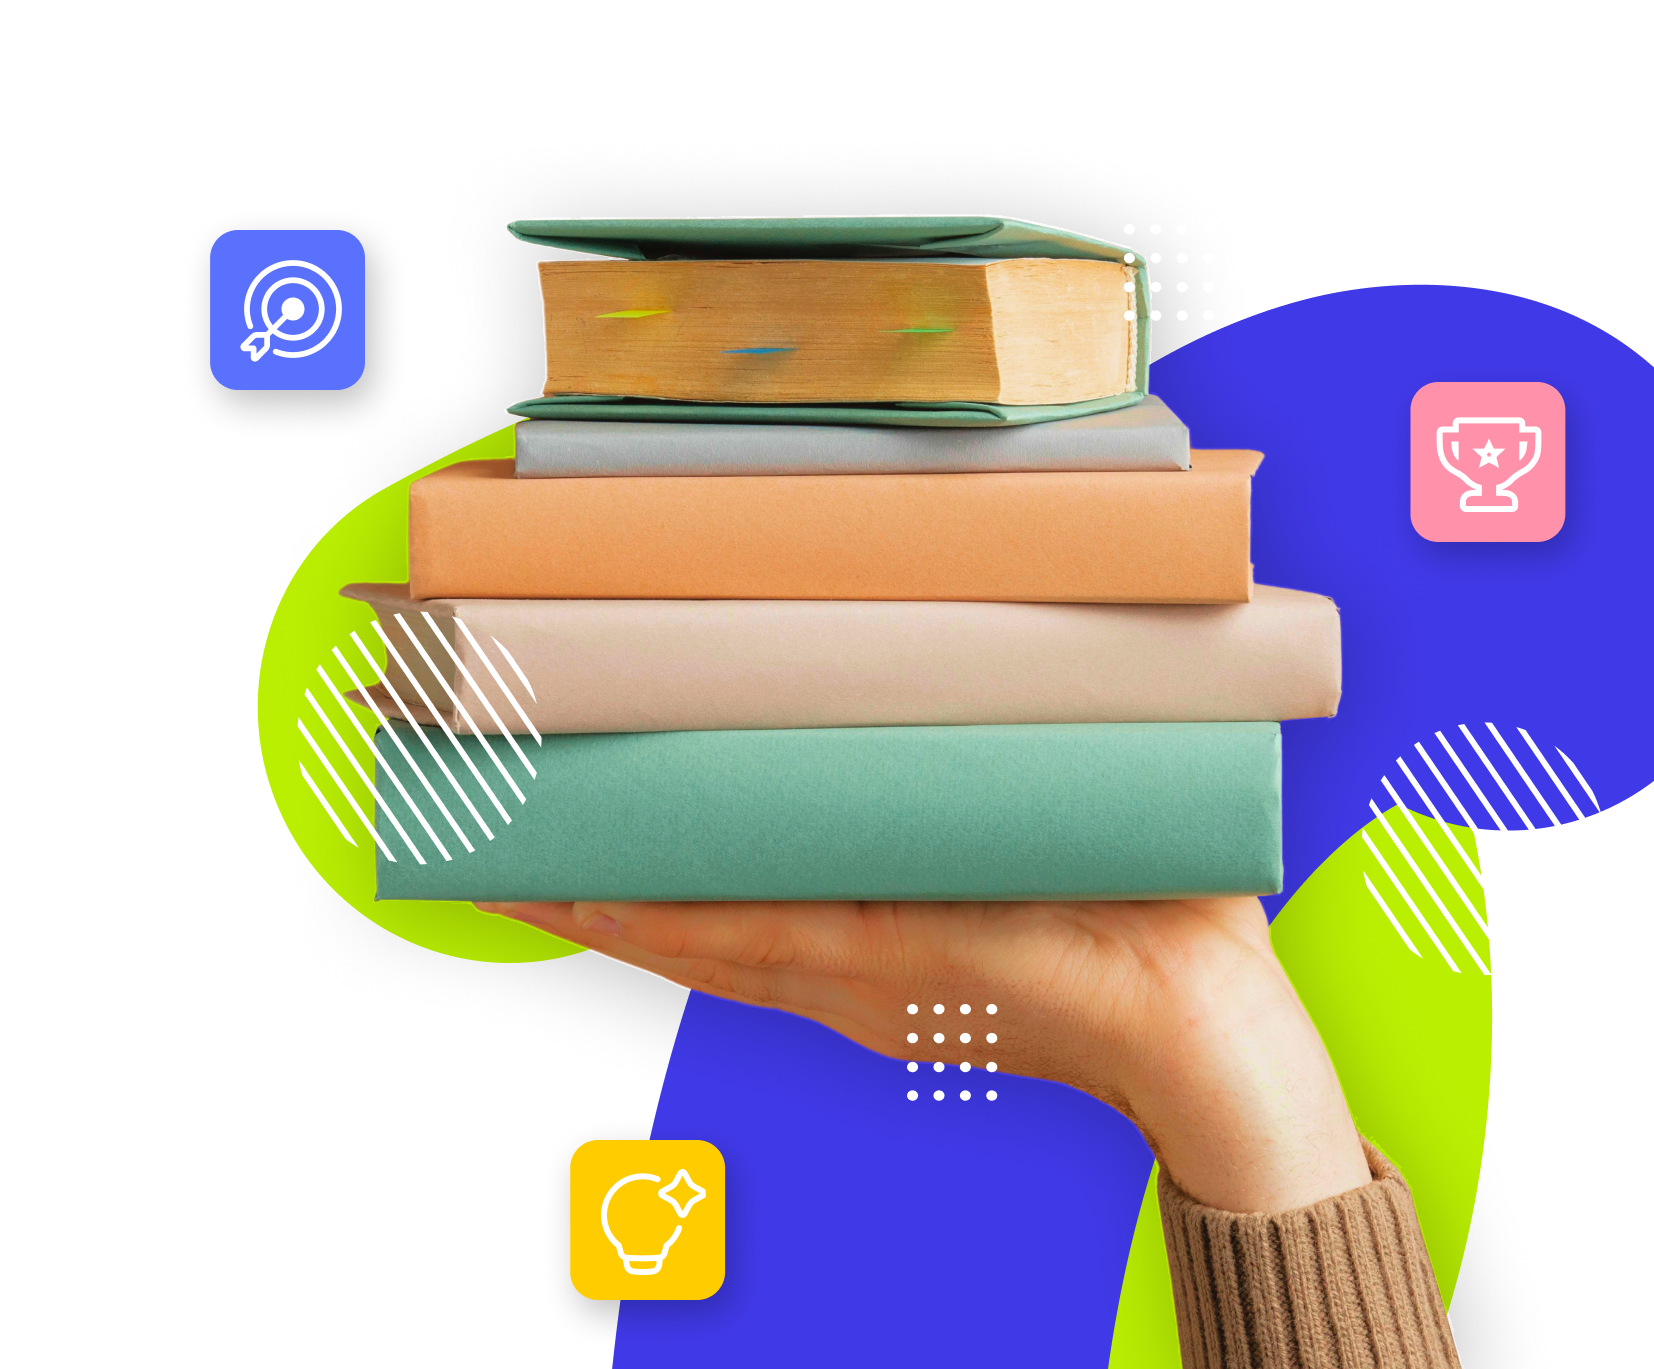
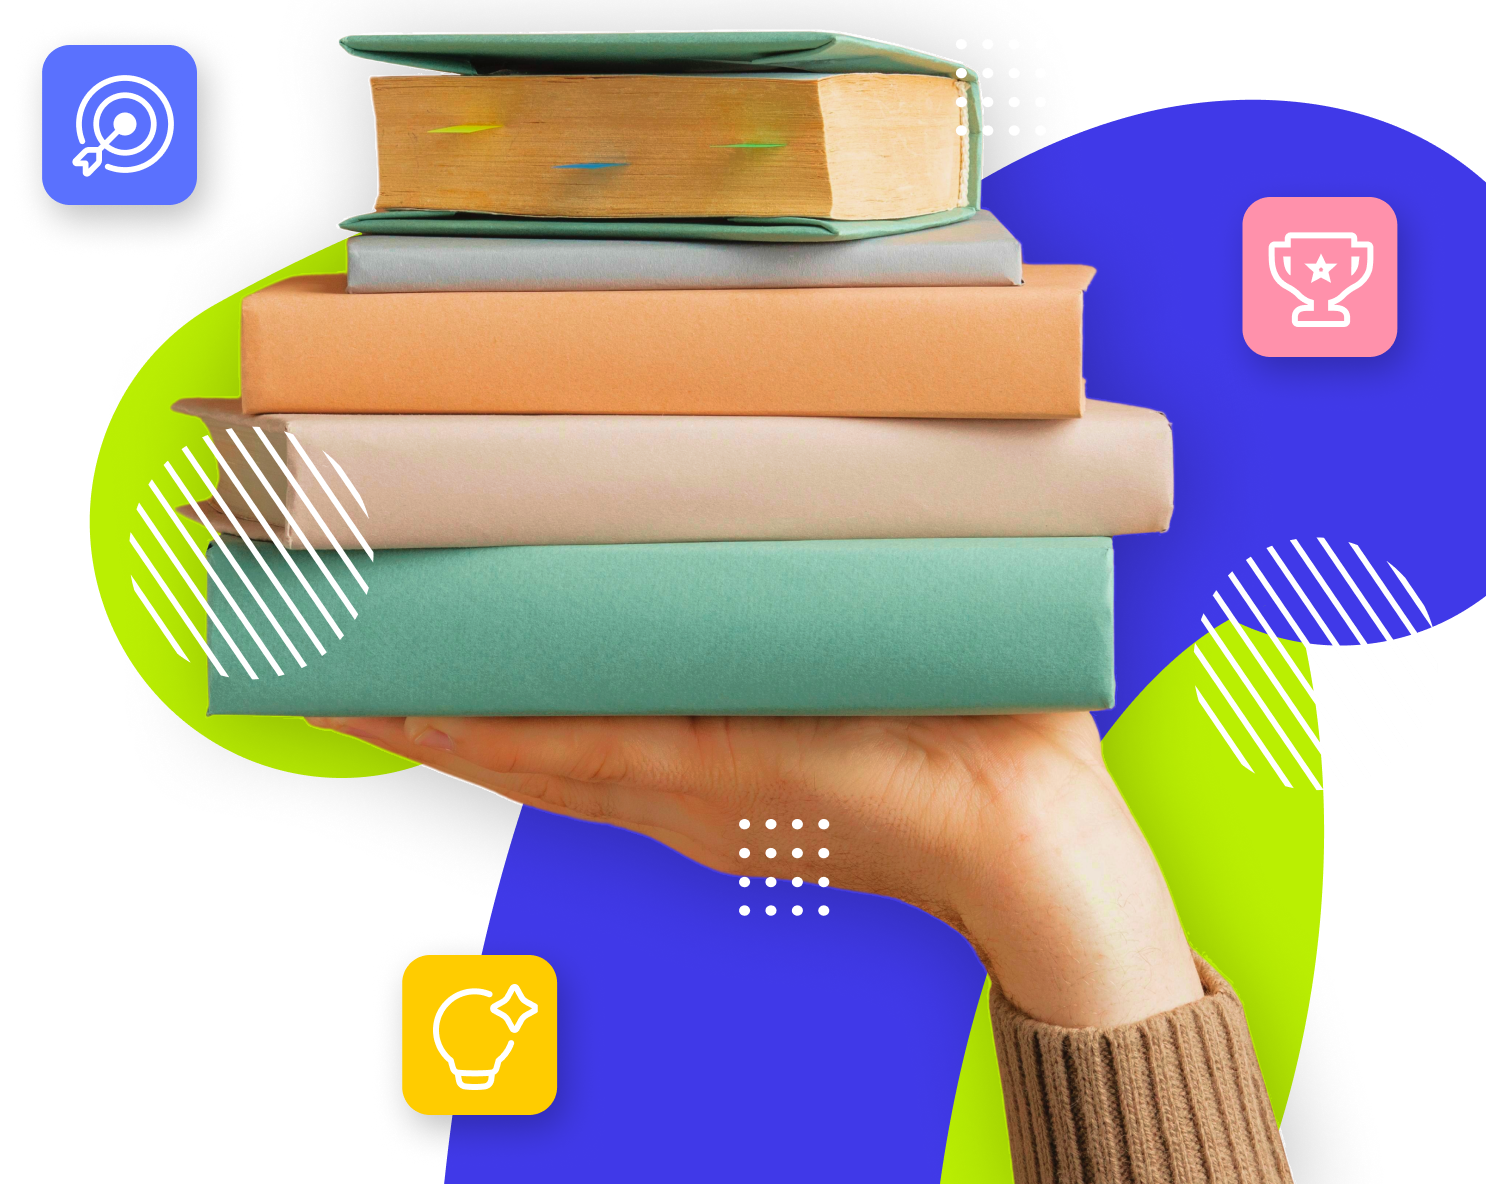
feat: Implement core homepage components including Header with search, Hero, Stats, BookCard, and HomePage, along with a new hero section image.

diff --git a/src/components/Stats.tsx b/src/components/Stats.tsx
@@ -1,107 +1,86 @@
-import svgPaths from "../imports/svg-zx896x9umy";
+'use client';
 
-function StashTargetLight() {
-  return (
-    <div className="size-[50px] md:size-[60px] lg:size-[69px]">
-      <svg className="block size-full" fill="none" preserveAspectRatio="none" viewBox="0 0 69 69">
-        <g>
-          <path d={svgPaths.p399d1600} fill="white" />
-          <path d={svgPaths.p1f8253c0} fill="white" />
-        </g>
-      </svg>
-    </div>
-  );
-}
-
-function StreamlinePlumpAiTechnologySpark() {
-  return (
-    <div className="size-[45px] md:size-[50px] lg:size-[55px]">
-      <svg className="block size-full" fill="none" preserveAspectRatio="none" viewBox="0 0 53 53">
-        <g>
-          <path d={svgPaths.p12442280} stroke="white" strokeLinecap="round" strokeLinejoin="round" strokeWidth="3" />
-          <path d={svgPaths.p220c6880} stroke="white" strokeWidth="3" />
-          <path d={svgPaths.pa117540} stroke="white" strokeLinecap="round" strokeLinejoin="round" strokeWidth="3" />
-        </g>
-      </svg>
-    </div>
-  );
-}
-
-function ArcticonsRewards() {
-  return (
-    <div className="size-[45px] md:size-[50px] lg:size-[57px]">
-      <svg className="block size-full" fill="none" preserveAspectRatio="none" viewBox="0 0 57 57">
-        <g>
-          <path d={svgPaths.p2dacb980} stroke="white" strokeLinecap="round" strokeLinejoin="round" strokeWidth="3" />
-        </g>
-      </svg>
-    </div>
-  );
-}
-
-function DotsPattern() {
-  return (
-    <div className="h-[40px] md:h-[48.354px] w-[38px] md:w-[46.599px]">
-      <svg className="block size-full" fill="none" preserveAspectRatio="none" viewBox="0 0 47 49">
-        <g>
-          <ellipse cx="2.84143" cy="2.58312" fill="white" rx="2.84143" ry="2.58312" />
-          <ellipse cx="16.4801" cy="2.58312" fill="white" rx="2.84143" ry="2.58312" />
-          <ellipse cx="30.1188" cy="2.58312" fill="white" rx="2.84143" ry="2.58312" />
-          <ellipse cx="43.7575" cy="2.58312" fill="white" rx="2.84143" ry="2.58312" />
-          <ellipse cx="2.84143" cy="17.048" fill="white" rx="2.84143" ry="2.58312" />
-          <ellipse cx="16.4801" cy="17.048" fill="white" rx="2.84143" ry="2.58312" />
-          <ellipse cx="30.1188" cy="17.048" fill="white" rx="2.84143" ry="2.58312" />
-          <ellipse cx="43.7575" cy="17.048" fill="white" rx="2.84143" ry="2.58312" />
-          <ellipse cx="2.84143" cy="31.5167" fill="white" rx="2.84143" ry="2.58312" />
-          <ellipse cx="16.4801" cy="31.5167" fill="white" rx="2.84143" ry="2.58312" />
-          <ellipse cx="30.1188" cy="31.5167" fill="white" rx="2.84143" ry="2.58312" />
-          <ellipse cx="43.7575" cy="31.5167" fill="white" rx="2.84143" ry="2.58312" />
-          <ellipse cx="2.84143" cy="45.7706" fill="white" rx="2.84143" ry="2.58312" />
-          <ellipse cx="16.4801" cy="45.7706" fill="white" rx="2.84143" ry="2.58312" />
-          <ellipse cx="30.1188" cy="45.7706" fill="white" rx="2.84143" ry="2.58312" />
-          <ellipse cx="43.7575" cy="45.7706" fill="white" rx="2.84143" ry="2.58312" />
-        </g>
-      </svg>
-    </div>
-  );
-}
+import { useState, useEffect } from 'react';
 
 export default function Stats() {
+  const [totalBooks, setTotalBooks] = useState(0);
+  const [totalCategories, setTotalCategories] = useState(0);
+
+  useEffect(() => {
+    const fetchStats = async () => {
+      try {
+        const res = await fetch('/api/stats');
+        const data = await res.json();
+        if (data.data) {
+          setTotalBooks(data.data.totalBooks || 0);
+          setTotalCategories(data.data.totalCategories || 0);
+        }
+      } catch (error) {
+        console.error("Failed to fetch stats:", error);
+      }
+    };
+    fetchStats();
+  }, []);
+
   return (
     <section className="relative w-full py-8 md:py-12">
       <div className="max-w-7xl mx-auto px-4 sm:px-6 lg:px-8">
-        <div className="relative bg-[#d9d9d9] rounded-[25px] p-6 md:p-8 lg:p-12 overflow-hidden">
-          {/* Decorative dots - hidden on mobile */}
-          <div className="absolute top-4 right-4 md:top-8 md:right-12 opacity-50 hidden md:block">
-            <DotsPattern />
-          </div>
-          <div className="absolute bottom-4 left-4 md:bottom-8 md:left-12 opacity-50 hidden md:block">
-            <DotsPattern />
-          </div>
+        {/* Dark background wrapper */}
+        <div className="bg-[#1a1a2e] rounded-[20px] p-4 md:p-6">
+          {/* White card with stats */}
+          <div className="bg-white rounded-[16px] p-6 md:p-8 lg:p-10">
+            <div className="grid grid-cols-1 md:grid-cols-2 lg:grid-cols-4 gap-6 md:gap-8">
 
-          <div className="grid grid-cols-1 md:grid-cols-3 gap-8 md:gap-12 relative z-10">
-            {/* Stat 1 */}
-            <div className="flex flex-col items-center text-center gap-4">
-              <div className="bg-[#5a71fe] rounded-[14px] shadow-[4px_7px_20px_0px_rgba(0,0,0,0.25)] p-4 md:p-5">
-                <StashTargetLight />
+              {/* Stat 1 - Kategori Ekslusif */}
+              <div className="flex flex-col gap-2">
+                <div className="flex items-baseline gap-2">
+                  <span className="text-[#5a4fcf] text-3xl md:text-4xl font-bold">
+                    {totalCategories > 0 ? totalCategories : 8}+
+                  </span>
+                  <span className="text-gray-800 text-lg md:text-xl font-semibold">
+                    Kategori Ekslusif
+                  </span>
+                </div>
+                <p className="text-gray-500 text-sm md:text-base">
+                  Koleksi pilihan untuk memperkaya wawasan anda
+                </p>
               </div>
-              <p className="font-['Poppins',sans-serif] text-black text-sm md:text-base">Total Kategori</p>
-            </div>
 
-            {/* Stat 2 */}
-            <div className="flex flex-col items-center text-center gap-4">
-              <div className="bg-[#ffcc00] rounded-[14px] shadow-[4px_7px_20px_0px_rgba(0,0,0,0.25)] p-4 md:p-5">
-                <StreamlinePlumpAiTechnologySpark />
+              {/* Stat 2 - Pengiriman Cepat & Aman */}
+              <div className="flex flex-col gap-2">
+                <h3 className="text-gray-800 text-lg md:text-xl font-semibold">
+                  Pengiriman Cepat & Aman
+                </h3>
+                <p className="text-gray-500 text-sm md:text-base">
+                  Kami menjaga setiap langkah pengiriman dengan penuh perhatian
+                </p>
               </div>
-              <p className="font-['Poppins',sans-serif] text-black text-sm md:text-base">Total buku available</p>
-            </div>
 
-            {/* Stat 3 */}
-            <div className="flex flex-col items-center text-center gap-4">
-              <div className="bg-[#ff91ab] rounded-[14px] shadow-[4px_7px_20px_0px_rgba(0,0,0,0.25)] p-4 md:p-5">
-                <ArcticonsRewards />
+              {/* Stat 3 - Mutu Terjamin */}
+              <div className="flex flex-col gap-2">
+                <h3 className="text-gray-800 text-lg md:text-xl font-semibold">
+                  Mutu Terjamin
+                </h3>
+                <p className="text-gray-500 text-sm md:text-base">
+                  Buku-buku berkualitas tinggi untuk pengalaman membaca terbaik
+                </p>
               </div>
-              <p className="font-['Poppins',sans-serif] text-black text-sm md:text-base">Total buku yang terjual</p>
+
+              {/* Stat 4 - Total Buku Tersedia */}
+              <div className="flex flex-col gap-2 lg:border-l lg:border-gray-200 lg:pl-8">
+                <div className="flex items-baseline gap-2">
+                  <span className="text-[#5a4fcf] text-3xl md:text-4xl font-bold">
+                    {totalBooks > 0 ? totalBooks : 100}+
+                  </span>
+                  <span className="text-gray-800 text-lg md:text-xl font-semibold">
+                    Total Buku Tersedia
+                  </span>
+                </div>
+                <p className="text-gray-500 text-sm md:text-base">
+                  Temukan buku-buku yang akan memperluas wawasan Anda
+                </p>
+              </div>
+
             </div>
           </div>
         </div>

diff --git a/src/components/Hero.tsx b/src/components/Hero.tsx
@@ -1,34 +1,8 @@
 'use client';
 
-import { motion, useScroll, useTransform, useSpring, useInView, Variants } from "framer-motion";
-import { useEffect, useState, useRef } from "react";
+import { motion, useScroll, useTransform, useSpring } from "framer-motion";
+import { useEffect, useState } from "react";
 import { useRouter } from "next/navigation";
-
-const CountUp = ({ value, suffix = "" }: { value: number; suffix?: string }) => {
-  const ref = useRef(null);
-  const isInView = useInView(ref, { once: true });
-  const springValue = useSpring(0, {
-    damping: 30,
-    stiffness: 100,
-    duration: 2
-  });
-  const [displayValue, setDisplayValue] = useState(0);
-
-  useEffect(() => {
-    if (isInView) {
-      springValue.set(value);
-    }
-  }, [isInView, value, springValue]);
-
-  useEffect(() => {
-    const unsubscribe = springValue.on("change", (latest) => {
-      setDisplayValue(Math.floor(latest));
-    });
-    return () => unsubscribe();
-  }, [springValue]);
-
-  return <span ref={ref}>{displayValue.toLocaleString()}{suffix}</span>;
-};
 
 export default function Hero() {
   const router = useRouter();
@@ -59,7 +33,7 @@ export default function Hero() {
   return (
     <>
       {/* Hero Section */}
-      <section className="relative w-full bg-white overflow-hidden">
+      <section className="relative w-full bg-[#F5F5F5] overflow-hidden">
         <div className="relative max-w-[1440px] mx-auto">
           <div className="flex flex-col lg:flex-row">
             {/* Left Content */}
@@ -98,46 +72,74 @@ export default function Hero() {
                 transition={{ duration: 0.8, delay: 0.5, ease: "easeOut" }}
                 src="/img/hand-hero-section.png"
                 alt="Koleksi Buku Pustaka Setia"
-                className="w-full h-full lg:w-auto right-0 lg:h-[700px] object-contain object-bottom transform lg:translate-x-10"
+                className="w-full h-full lg:w-auto right-0 lg:h-[800px] object-contain object-bottom transform lg:translate-x-10"
               />
             </div>
           </div>
         </div>
       </section>
 
-      {/* Stats Section with Parallax */}
-      <section className="w-full h-[300px] relative overflow-hidden flex items-center">
-        {/* Parallax Background */}
-        <motion.div
-          style={{ y }}
-          className="absolute inset-0 bg-neutral-100 border-t border-neutral-200 z-0"
-        />
+      {/* Stats Section - Horizontal Layout */}
+      <section className="w-full z-50 relative -mt-5 pb-5 overflow-hidden">
+        <div className="max-w-[1440px] mx-auto px-4 md:px-8 lg:px-16 w-full">
+          {/* White card with shadow */}
+          <div className="bg-white rounded-[20px] p-6 md:p-8 lg:p-12 shadow-lg">
+            {/* Horizontal flex layout */}
+            <div className="flex flex-col md:flex-row items-start justify-between gap-6 md:gap-8">
 
-        <div className="relative max-w-[1440px] mx-auto px-4 md:px-8 lg:px-16 w-full z-10">
-          <div className="flex flex-row justify-between items-start text-center divide-x divide-neutral-300">
-            <div className="flex-1 px-2 md:px-4 flex flex-col items-center">
-              <p className="font-['Poppins',sans-serif] text-2xl md:text-4xl font-bold text-neutral-800">
-                <CountUp value={stats.totalCategories > 0 ? stats.totalCategories : 8} suffix="+" />
-              </p>
-              <div className="mt-2 min-h-[40px] flex items-center justify-center">
-                <p className="font-['Poppins',sans-serif] text-[10px] md:text-sm font-medium text-neutral-600">Total Kategori</p>
+              {/* Stat 1 - Kategori Ekslusif */}
+              <div className="flex flex-col gap-2 flex-1">
+                <div className="flex items-center gap-2 flex-wrap">
+                  <span className="text-[#5a4fcf] text-[40px] font-bold leading-none font-['Poppins',sans-serif]">
+                    {stats.totalCategories > 0 ? stats.totalCategories : 8}+
+                  </span>
+                  <span className="text-[#5a4fcf] text-[18px] font-semibold font-['Poppins',sans-serif]">
+                    Kategori Ekslusif
+                  </span>
+                </div>
+                <p className="text-[#8a8a8a] text-[16px] font-['Poppins',sans-serif]">
+                  Koleksi pilihan untuk memperkaya wawasan anda
+                </p>
               </div>
-            </div>
-            <div className="flex-1 px-2 md:px-4 flex flex-col items-center">
-              <p className="font-['Poppins',sans-serif] text-2xl md:text-4xl font-bold text-neutral-800">
-                <CountUp value={stats.totalBooks > 0 ? stats.totalBooks : 520} suffix="+" />
-              </p>
-              <div className="mt-2 min-h-[40px] flex items-center justify-center">
-                <p className="font-['Poppins',sans-serif] text-[10px] md:text-sm font-medium text-neutral-600">Total buku available</p>
+
+              {/* Stat 2 - Pengiriman Cepat & Aman */}
+              <div className="flex flex-col gap-2 flex-1">
+                <h3 className="text-[#5a4fcf] text-[18px] font-semibold font-['Poppins',sans-serif]">
+                  Pengiriman Cepat & Aman
+                </h3>
+                <p className="text-[#8a8a8a] text-[16px] font-['Poppins',sans-serif]">
+                  Kami menjaga setiap langkah pengiriman dengan penuh perhatian
+                </p>
               </div>
-            </div>
-            <div className="flex-1 px-2 md:px-4 flex flex-col items-center">
-              <p className="font-['Poppins',sans-serif] text-2xl md:text-4xl font-bold text-neutral-800">
-                <CountUp value={stats.totalSold} suffix="+" />
-              </p>
-              <div className="mt-2 min-h-[40px] flex items-center justify-center">
-                <p className="font-['Poppins',sans-serif] text-[10px] md:text-sm font-medium text-neutral-600">Total buku yang terjual</p>
+
+              {/* Stat 3 - Mutu Terjamin */}
+              <div className="flex flex-col gap-2 flex-1">
+                <h3 className="text-[#5a4fcf] text-[18px] font-semibold font-['Poppins',sans-serif]">
+                  Mutu Terjamin
+                </h3>
+                <p className="text-[#8a8a8a] text-[16px] font-['Poppins',sans-serif]">
+                  Buku-buku berkualitas tinggi untuk pengalaman membaca terbaik
+                </p>
               </div>
+
+              {/* Vertical Separator */}
+              <div className="hidden lg:block w-[1px] h-auto bg-gray-200 self-stretch" />
+
+              {/* Stat 4 - Total Buku Tersedia */}
+              <div className="flex flex-col gap-2 flex-1">
+                <div className="flex items-center gap-2 flex-wrap">
+                  <span className="text-[#5a4fcf] text-[40px] font-bold leading-none font-['Poppins',sans-serif]">
+                    {stats.totalBooks > 0 ? stats.totalBooks : 100}+
+                  </span>
+                  <span className="text-[#5a4fcf] text-[18px] font-semibold font-['Poppins',sans-serif]">
+                    Total Buku Tersedia
+                  </span>
+                </div>
+                <p className="text-[#8a8a8a] text-[16px] font-['Poppins',sans-serif]">
+                  Temukan buku-buku yang akan memperluas wawasan Anda
+                </p>
+              </div>
+
             </div>
           </div>
         </div>

diff --git a/src/components/Header.tsx b/src/components/Header.tsx
@@ -153,7 +153,7 @@ export default function Header() {
   return (
     <>
       {/* MOBILE NAVBAR */}
-      <header className="lg:hidden sticky top-0 left-0 right-0 z-50 h-[87px] bg-neutral-50 flex items-center justify-between px-6 shadow-sm">
+      <header className="lg:hidden sticky top-0 left-0 right-0 z-50 h-[87px] bg-white flex items-center justify-between px-6 shadow-sm">
         <Link href="/" className="h-[37px] w-[40px] shrink-0">
           <img
             src="/img/logo.png"
@@ -180,7 +180,7 @@ export default function Header() {
         </div>
 
         {mobileMenuOpen && (
-          <div className="absolute top-[87px] left-0 right-0 bg-neutral-50 border-t border-gray-200 pb-4 pt-4 px-[25px] shadow-lg">
+          <div className="absolute top-[87px] left-0 right-0 bg-white border-t border-gray-200 pb-4 pt-4 px-[25px] shadow-lg">
             <nav className="flex flex-col gap-4">
               <Link href="/" onClick={() => setMobileMenuOpen(false)} className="flex flex-col gap-1 text-left">
                 <p className="font-['Poppins',sans-serif] text-[#2f2f2f]">Beranda</p>
@@ -204,7 +204,7 @@ export default function Header() {
       </header>
 
       {/* DESKTOP NAVBAR */}
-      <header className={`hidden lg:block w-full bg-neutral-50 sticky top-0 z-50 border-b border-gray-200 transition-transform duration-300 ${isVisible ? 'translate-y-0' : '-translate-y-full'}`}>
+      <header className={`hidden lg:block w-full bg-white sticky top-0 z-50 border-b border-gray-200 transition-transform duration-300 ${isVisible ? 'translate-y-0' : '-translate-y-full'}`}>
         <div className="max-w-7xl mx-auto px-4 sm:px-6 lg:px-8">
           <div className="flex items-center justify-between h-20">
             <Link href="/" className="flex-shrink-0">

diff --git a/src/components/ui/BookCard.tsx b/src/components/ui/BookCard.tsx
@@ -12,10 +12,10 @@ export default function BookCard({ book, onClick, variant = 'default' }: BookCar
     return (
       <div
         onClick={onClick}
-        className="w-full cursor-pointer group bg-white"
+        className="w-full cursor-pointer group "
       >
         {/* Book Cover - Responsive aspect ratio */}
-        <div className="relative w-full aspect-[3/4] bg-neutral-100 rounded overflow-hidden mb-2">
+        <div className="relative w-full aspect-[3/4]  rounded overflow-hidden mb-2">
           <img
             src={book.image}
             alt={book.title}
@@ -48,7 +48,7 @@ export default function BookCard({ book, onClick, variant = 'default' }: BookCar
   return (
     <div
       onClick={onClick}
-      className="w-full cursor-pointer group bg-white"
+      className="w-full cursor-pointer group"
     >
       {/* Book Cover - Responsive aspect ratio */}
       <div className="relative w-full aspect-[3/4] bg-neutral-100 rounded overflow-hidden mb-2">

diff --git a/src/components/HomePage.tsx b/src/components/HomePage.tsx
@@ -125,12 +125,12 @@ export default function HomePage() {
     }
 
     return (
-        <div className="min-h-screen bg-white">
+        <div className="min-h-screen bg-[#F5F5F5]">
             {/* Hero Section */}
             <Hero />
 
             {/* All Books Grid */}
-            <div className="max-w-[1440px] mx-auto px-4 md:px-8 lg:px-16 py-8 md:py-12">
+            <div className="max-w-[1440px] mx-auto px-4 md:px-8 lg:px-16  md:py-12">
                 {/* Section Header */}
                 <div className="mb-6 md:mb-8 text-center md:text-left">
                     <h2 className="text-2xl md:text-3xl font-bold text-neutral-900">
